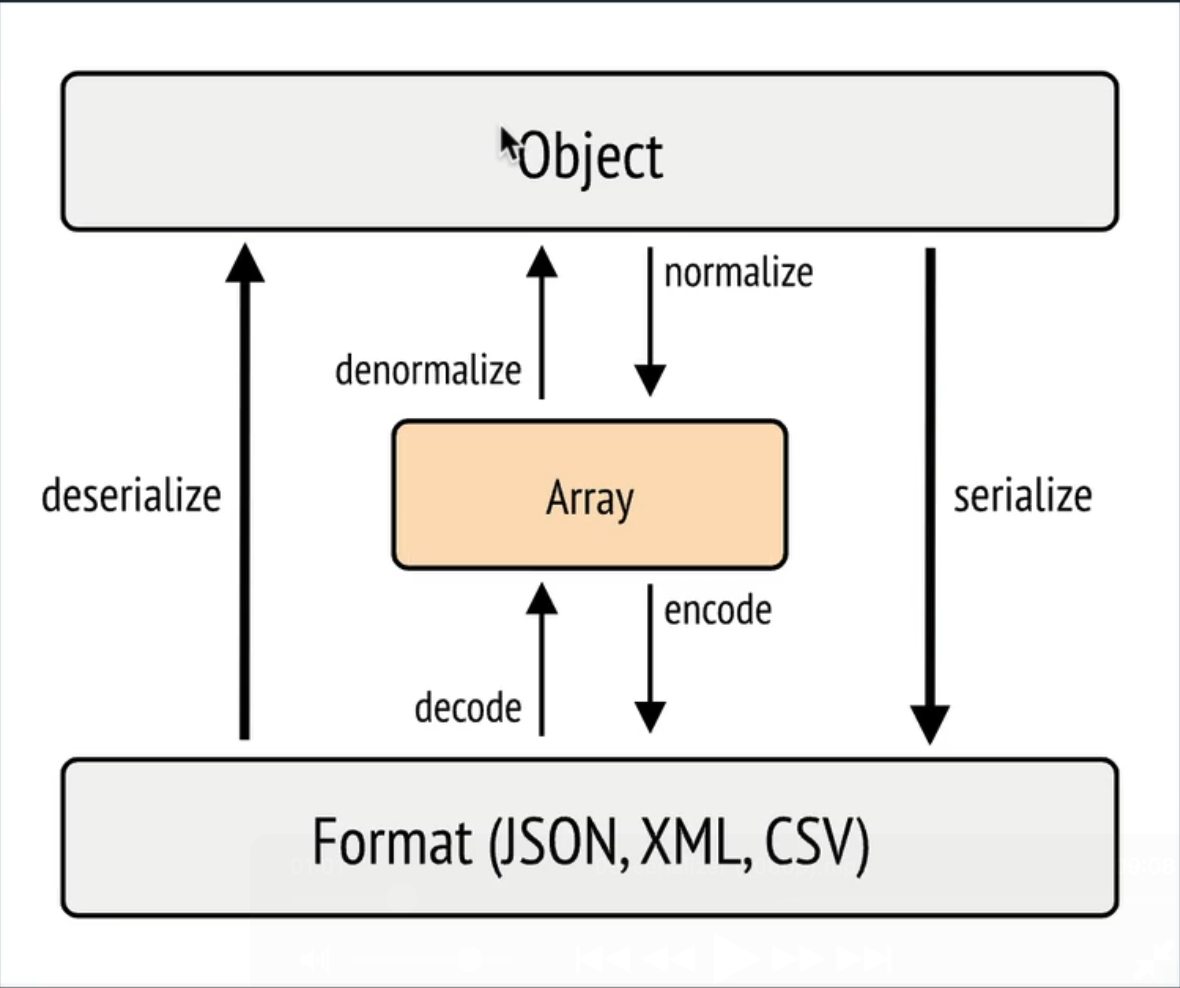
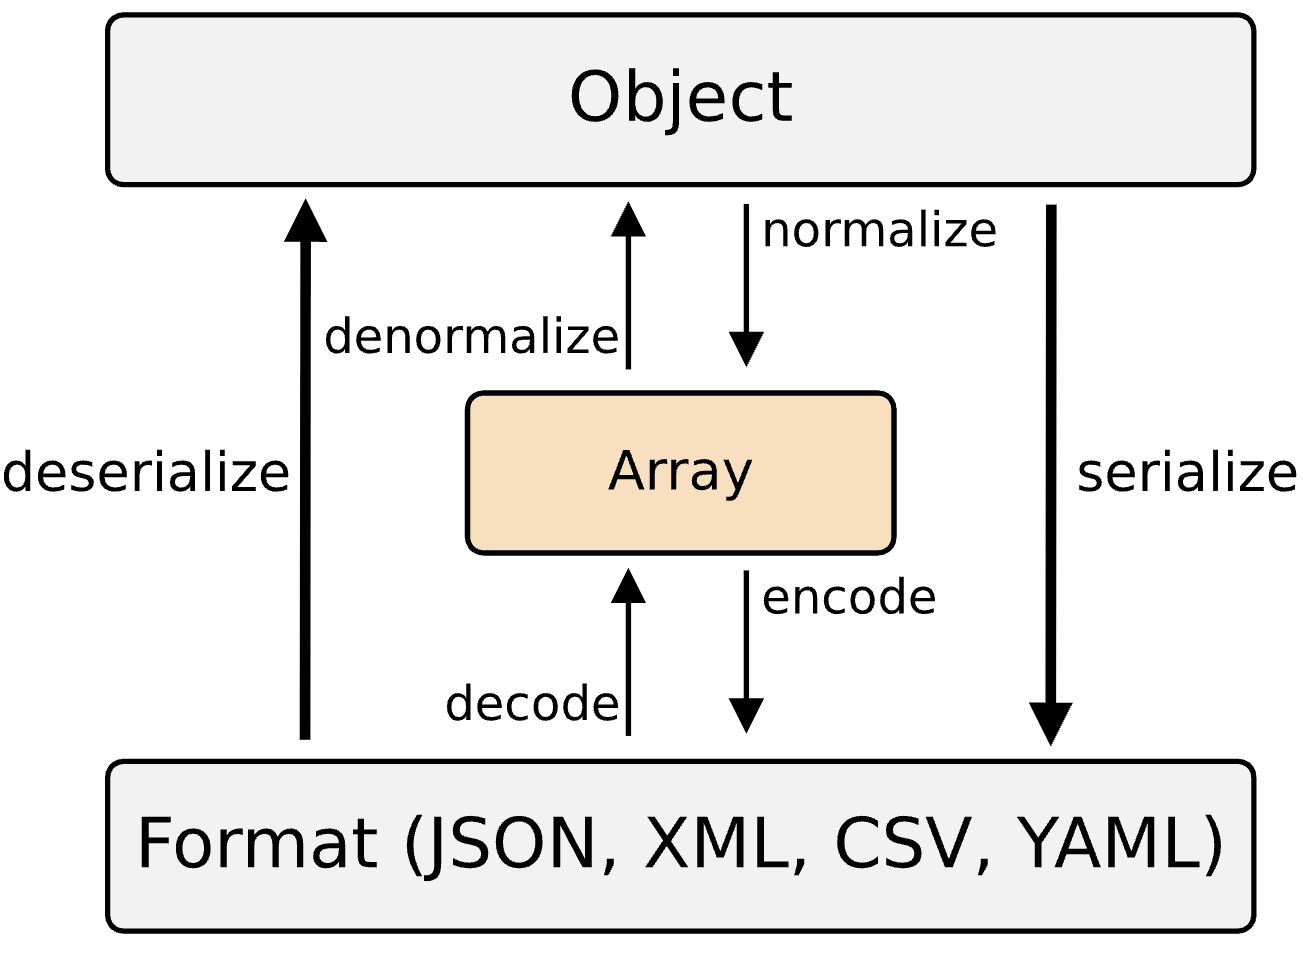
Priviléger le code aux images

Changed region(s): [[0.0, 0.0, 1.0, 1.0]]

diff --git a/docs/partie-1.md b/docs/partie-1.md
@@ -46,19 +46,46 @@ public function getTrucBidule(): string
 }
 ```
 
-Et ça générera automatiquement ce schéma de réponse :
+Et ça générera automatiquement ce schéma de réponse avec le champs `trucBidule` :
 
-![fieldTrucBidule.png](images/partie-1/02-fieldTrucBidule.png)
+```json
+{
+  "@id": "/api/treasures/1",
+  "@type": "Treasure",
+  "id": 1,
+  "owner": "/api/users/3",
+  "name": "set of ornate jewelry",
+  "shortDescription": "Fugit quo perspiciatis est ratione do...",
+  "plunderedAtAgo": "2 months ago",
+  "trucBidule": "truc bidule"
+}
+```
 
 ### Groupes de serialization
 
 Par défaut, tous les champs sont exposés mais souvent il y a certains champs ou certaines méthodes qu'on ne souhaite pas exposer, pour ce cas de figure on peut utiliser les `groupes de serialization` (de Symfony):
 
-![05-champs-avec-groupes.png](images/partie-1/05-champs-avec-groupes.png)
+```php
+#[ORM\Column(length: 255)]
+#[Groups(['treasure:read', 'treasure:write'])]
+private ?string $name = null;
+
+#[ORM\Column(type: Types::TEXT)]
+#[Groups('treasure:read')]
+private ?string $description = null;
+```
+
 
 Avec la config suivante dans l'attribut `#[ApiResource]` pour utiliser les groupes :
 
-![03-groupes-de-serialization.png](images/partie-1/03-groupes-de-serialization.png)
+```php
+#[ApiResource(
+    shortName: 'Treasure',
+    description: 'A rare and valuable treasure.',
+    normalizationContext: ['groups' => ['treasure:read']],
+    denormalizationContext: ['groups' => ['treasure:write']],
+)]
+```
 
 Pour rappel, voici à quoi correspondent la `normalisation` et la `denormalisation` :
 ![04-schema-serialization.png](images/partie-1/04-schema-serialization.png)
@@ -110,4 +137,3 @@ de ligne
 
 ~~Texte barré ?~~
 
-==highlight ?==
